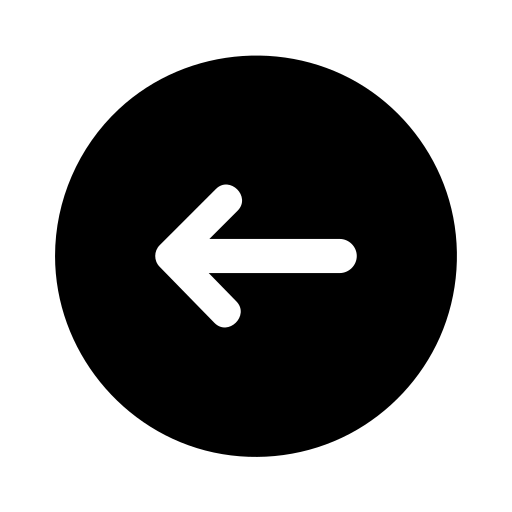
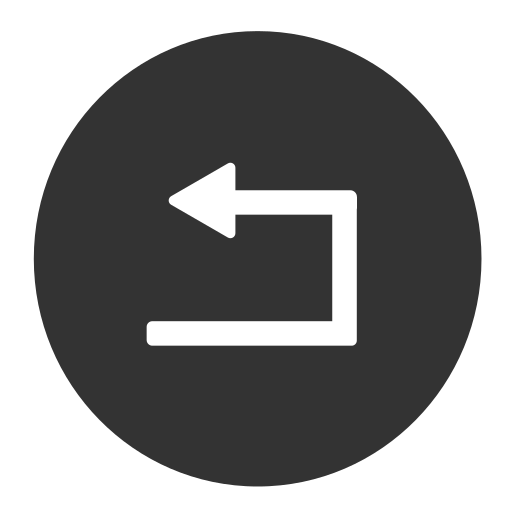
fix routes

diff --git a/src/screens/ConnectScreen.tsx b/src/screens/ConnectScreen.tsx
@@ -117,7 +117,15 @@ const ConnectScreen: React.FC = () => {
   );
   return (
     <View style={styles.container}>
-      <TouchableOpacity>{}</TouchableOpacity>
+      <TouchableOpacity
+      onPress={() => navigation.navigate('Home')}
+      >
+         <Image
+              source={require('../assets/back.png')}
+              style={{ width: 30, height: 30, alignSelf: 'flex-start'}}
+              resizeMode="contain"
+            />
+      </TouchableOpacity>
       <Text style={styles.title}>Selecciona un dispositivo</Text>
       <View style={{ alignItems: 'center', marginBottom: 25 }}>
       </View>
@@ -126,7 +134,7 @@ const ConnectScreen: React.FC = () => {
         onPress={startScan} 
         disabled={scanning}
       >
-        <Text style={styles.scanButton}>
+      <Text style={styles.scanButton}>
           {scanning ? 'Buscando...' : 'Buscar Dispositivos'}
         </Text>
       </TouchableOpacity>
@@ -148,12 +156,11 @@ const styles = StyleSheet.create({
     padding: 24,
   },
   title: {
-    fontSize: 22,
+    fontSize: 20,
     color: colors.text,
     marginBottom: 20,
     textAlign: 'center',
     fontWeight: 'bold',
-    paddingTop: 20
   },
   scanButton: {
     backgroundColor: '#617AFA',

diff --git a/src/screens/HomeScreen.tsx b/src/screens/HomeScreen.tsx
@@ -15,7 +15,7 @@ const HomeScreen = () => {
     <View style={styles.container}>
         <Image
         source={require('../assets/words.png')}
-        style={{ width: 200, height: 200, alignSelf: 'center', margin: 16 }}
+        style={{ width: 250, height: 250, alignSelf: 'center', margin: 16 }}
         resizeMode="contain"
       />
       <TouchableOpacity
@@ -34,17 +34,18 @@ const styles = StyleSheet.create({
     backgroundColor: colors.background,
     justifyContent: 'center',
     alignItems: 'center',
+    paddingBottom: 80,
   },
   title: {
     fontSize: 32,
-    color: colors.primary,
-    marginBottom: 40,
+    color: colors.primary
   },
   button: {
     backgroundColor: '#617AFA',
     paddingVertical: 12,
     paddingHorizontal: 30,
     borderRadius: 16,
+    marginBottom: 40
   },
   buttonText: {
     color: colors.text,
